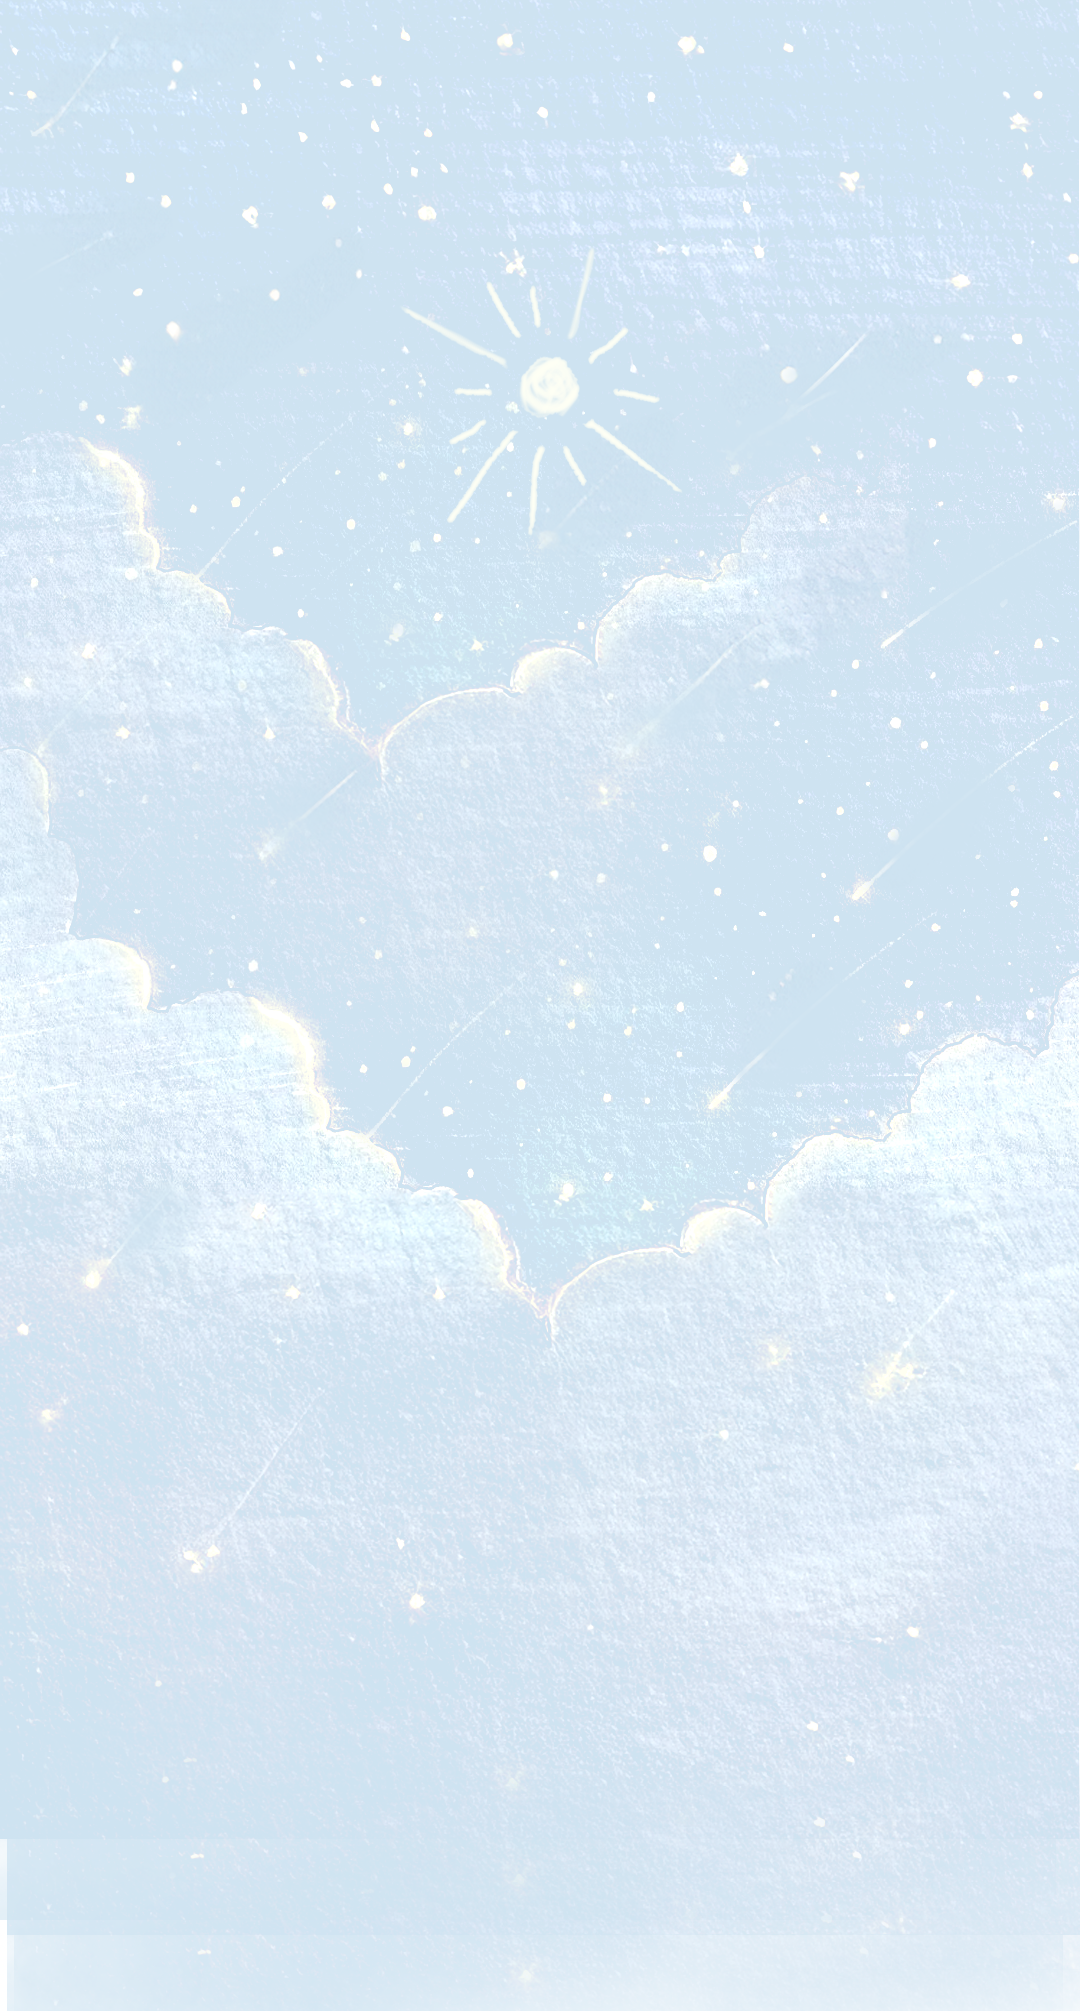
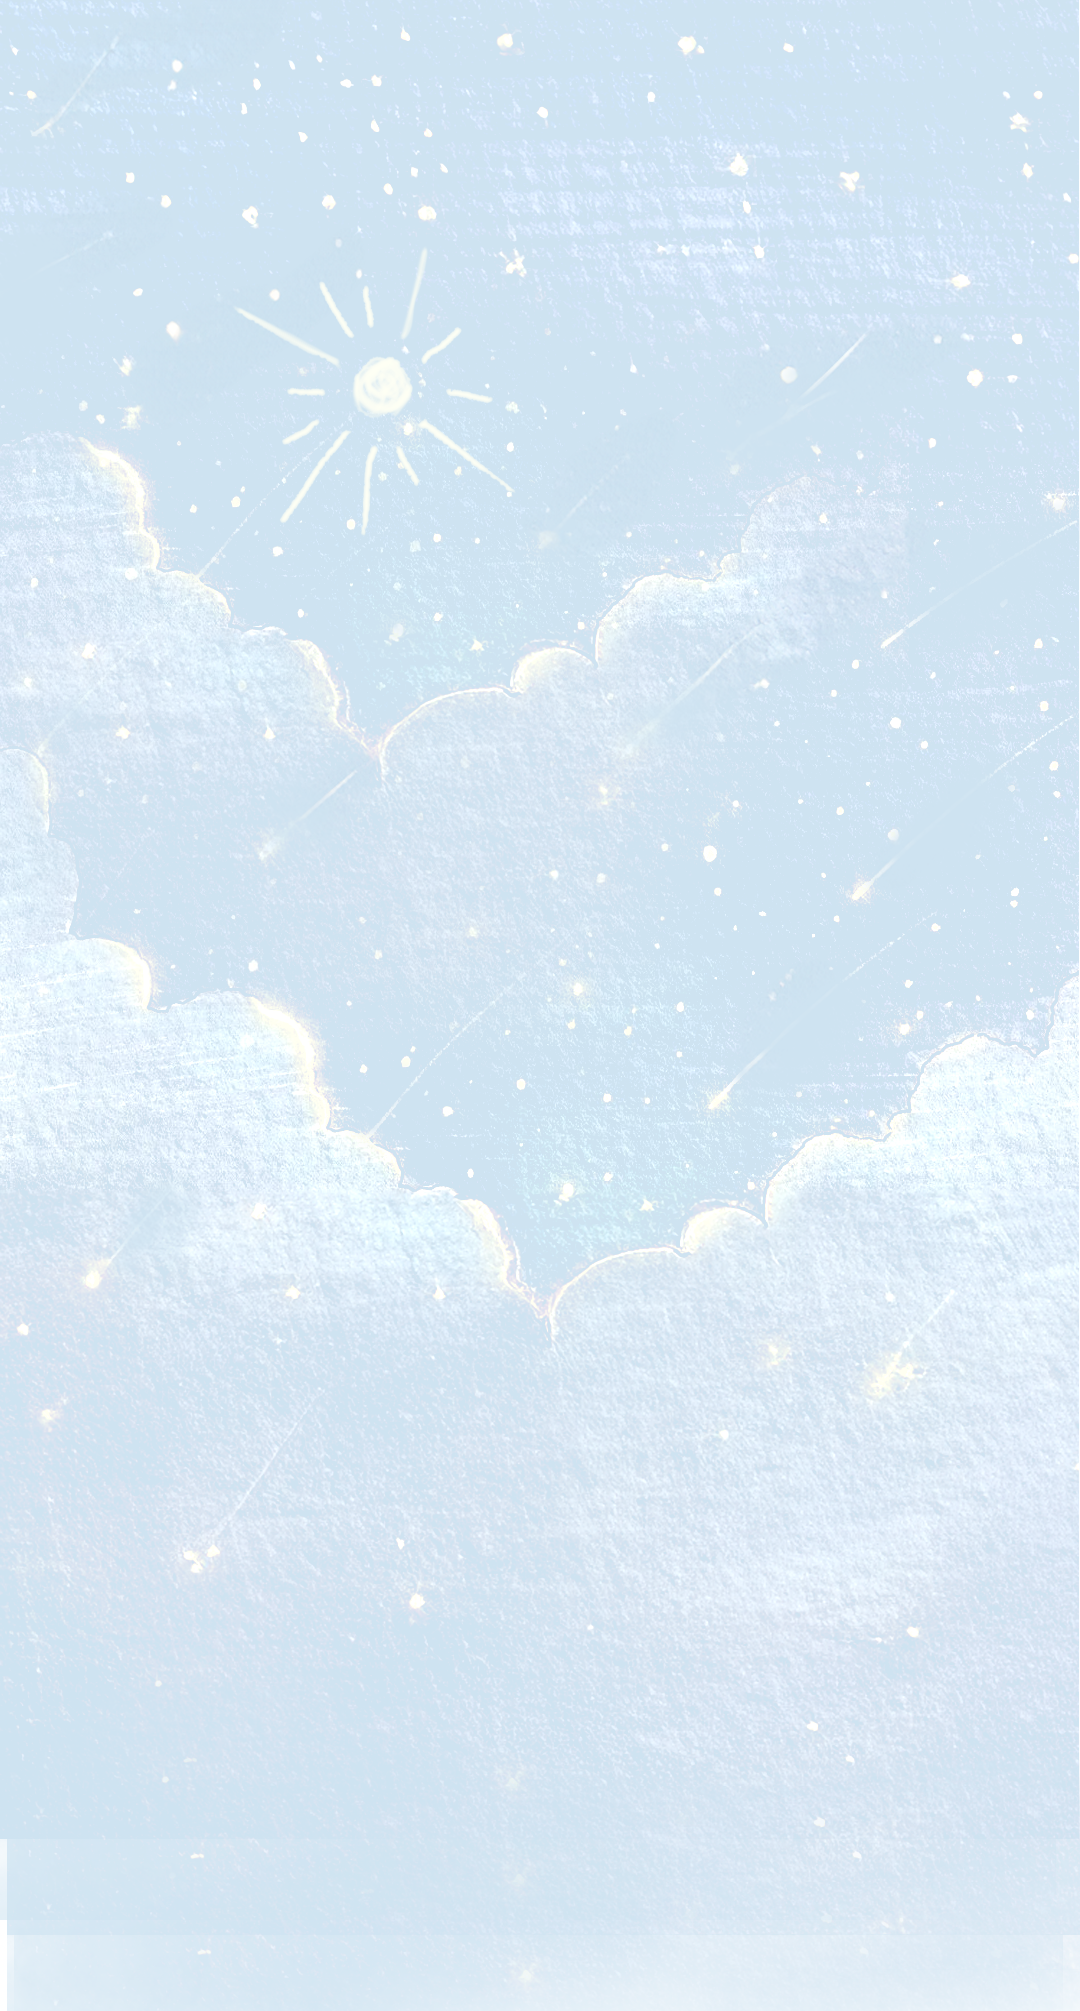
메인배경하는중

Changed region(s): [[0.275, 0.1542, 0.5806, 0.2466], [0.2444, 0.1542, 0.275, 0.185]]

diff --git a/src/App.js b/src/App.js
@@ -1,4 +1,5 @@
 import "./css/common.css";
+import { url } from "./store/ref";
 
 import { BrowserRouter as Router, Routes, Route, useNavigate } from "react-router-dom";
 import { useEffect, useState } from "react";
@@ -92,16 +93,50 @@ function App() {
     setUserid(user.id);
     setUsername(user.properties.nickname);
     setUserprofile(user.properties.profile_image);
-    // console.log('카카오로그인 정보 확인 ', user);//ok
 
-    // navigate("/");//없어야 다른 카테고리도 이동됨.. => 갇혔던 이유 ㅠㅠ
+    console.log('카카오로그인 정보 확인 ', user);//0703 ok
+
+    // -------
+    await registerKakaoUser(
+      //카카오로그인 함수
+      user.id,
+      user.properties.nickname,
+      user.properties.profile_image
+    );
+    // -------
+
   };
 
 
+  // ------
+  const registerKakaoUser = async (userid, username, profile_image) => {
+    try {
+      const response = await fetch(`${url}/kakao-register`, {
+        method: "POST",
+        headers: { "Content-Type": "application/json" },
+        body: JSON.stringify({
+          userid,
+          username,
+          profile_image,
+          // password: "",
+          // gender: "",
+        }),
+      });
+      if (!response.ok) {
+        throw new Error("Failed to register Kakao user");
+      }
+      console.log(userid, username, profile_image);
+      setUserid(userid);
+      setUsername(username);
+      setUserprofile(profile_image);
+    } catch (error) {
+      console.error("Error registering Kakao user", error);
+    }
+  };
 
-  // useEffect(() => {
-  //   console.log('---userInfo---', userInfo); // 이렇게 해도 {msg: 'too long for access token.', code: -2} 오류 떠
-  // }, [userInfo]);
+  // ------
+
+
 
   return (
     <div className="App">

diff --git a/src/css/Codi.module.css b/src/css/Codi.module.css
@@ -568,11 +568,15 @@ button {
 
 .codiMain {
     padding-bottom: 2rem;
-    /* position: relative; */
+    /* background-color: var(--grey-100);
+    position: relative; */
+    /* z-index: 2; */
 }
 
 .bigBtnCon {
     /* border: 1px solid red; */
+    position: relative;
+
     padding: 0 1rem;
     display: flex;
     gap: 1rem;
@@ -615,6 +619,8 @@ button {
 }
 
 .CodiLogBoxsMain {
+
+    position: relative;
     padding: 1rem;
     display: flex;
     flex-direction: column;

diff --git a/src/components/MainWeatherBG.jsx b/src/components/MainWeatherBG.jsx
@@ -34,7 +34,7 @@ const MainWeatherBG = () => {
     return (
         <div className={bgStyle.MainweatherBG}>
             <img className={bgStyle.skyWeather} src={`img/weatherBG/sky/${SKY}.png`} alt="SKY" />
-            <img className={bgStyle.bg} src={`img/weatherBG/bg/${bgImg}.png`} alt="bgImg" />
+            <img className={bgStyle.bg} src={`img/weatherBG/bg/${bgImg || `loading`}.png`} alt="bgImg" />
         </div>
     )
 }

diff --git a/src/css/MainWeatherBG.module.css b/src/css/MainWeatherBG.module.css
@@ -59,5 +59,8 @@
 .MainweatherBG img.skyWeather {
     object-fit: cover;
     object-position: top;
+    position: fixed;
+    max-width: 720px;
+
     top: 0;
 }
